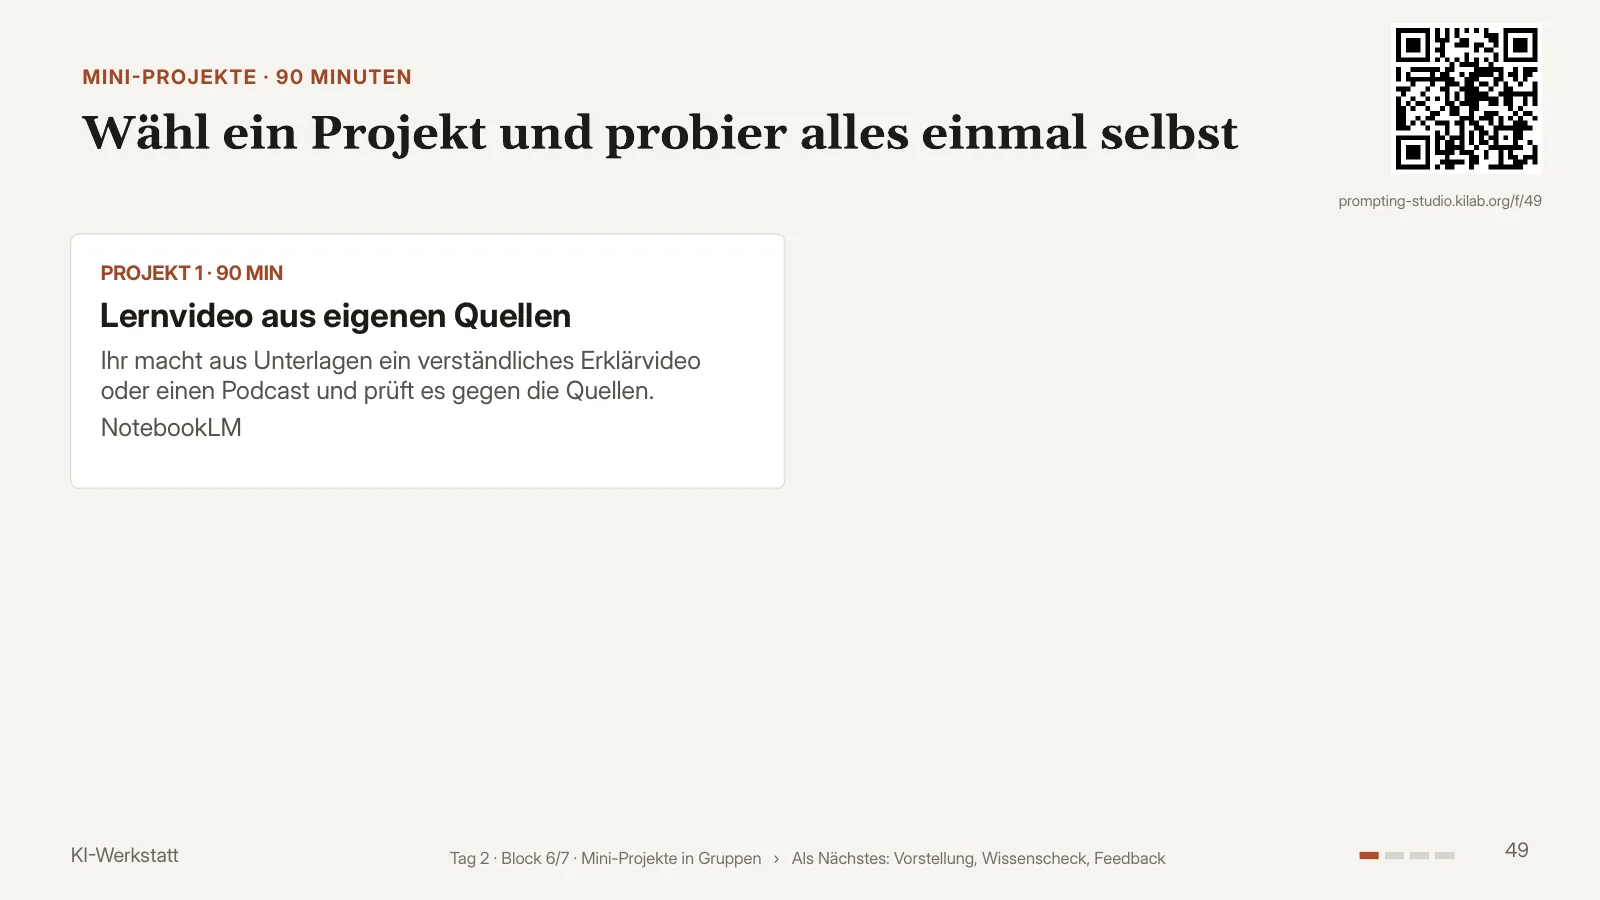
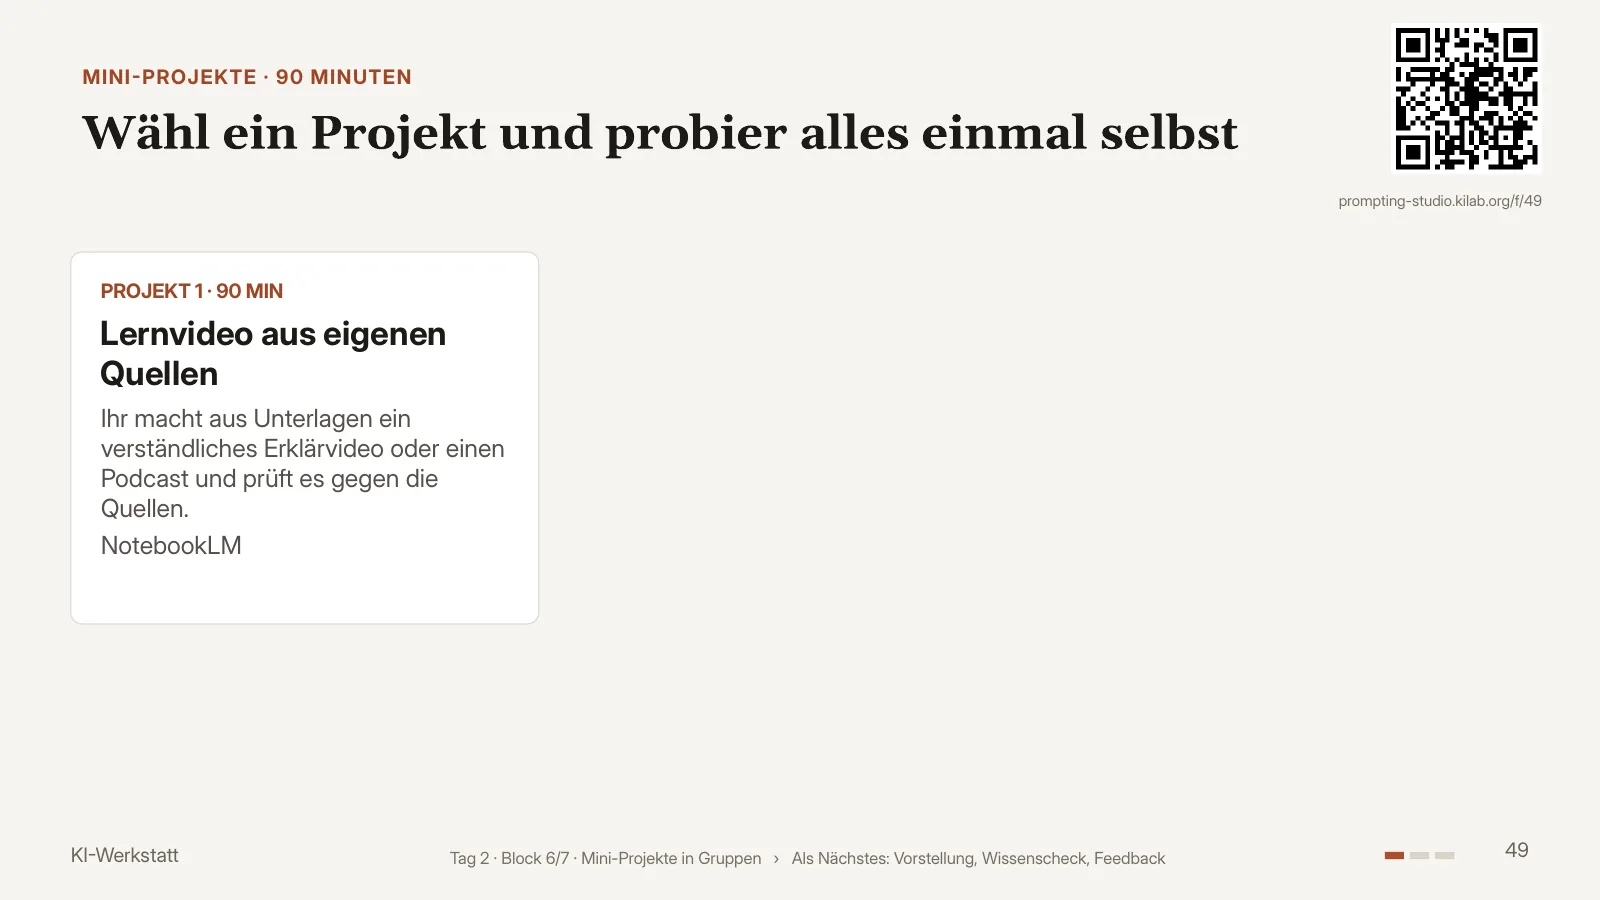
Kurs: Mini-Projekt Song und Musikvideo entfernt (eigener Kurs), Folien v32
Gruppenaufgabe musikvideo gestrichen; Folie 49 zeigt drei Projekte nebeneinander, Aufbau in drei Schritten.

Claude-Session: https://claude.ai/code/session_01StYiw2HCBdyk3EobBGxoXW

Changed region(s): [[0.0625, 0.28, 0.4375, 0.6222], [0.8438, 0.9333, 0.875, 0.9644]]

diff --git a/src/data/kurs/gruppenarbeit.ts b/src/data/kurs/gruppenarbeit.ts
@@ -168,29 +168,6 @@ export const GRUPPENAUFGABEN: Gruppenaufgabe[] = [
     hinweis: "Video- und Audio-Überblicke gibt es kostenlos auf Deutsch, mit einem Tageslimit pro Konto. Die „kinoartigen“ Video-Überblicke (Cinematic) gibt es nur auf Englisch und im Ultra-Abo. Stand 22.11.2026.",
   },
   {
-    id: "musikvideo",
-    tag: 2,
-    wann: "Mini-Projekt, Nachmittag",
-    titel: "Mini-Projekt: Song und Musikvideo",
-    ziel: "Ihr kombiniert Text, Musik und Bild zu einem kurzen Video und klärt, was ihr damit machen dürft.",
-    gruppe: "zu dritt bis viert",
-    rollen: ["Text: schreibt mit KI den Songtext", "Musik: erzeugt den Song", "Bild: erzeugt Bilder und Video", "Rechte: prüft Nutzungsbedingungen"],
-    phasen: [
-      { min: 10, text: "Thema, Stil und Anlass festlegen, z. B. Vereinshymne, Geburtstagslied, Werbejingle." },
-      { min: 15, text: "Songtext mit einem Assistenten schreiben: zwei Strophen, Refrain, Stil angeben." },
-      { min: 20, text: "Song mit Suno oder Flow Music erzeugen, zwei Versionen vergleichen." },
-      { min: 25, text: "Bilder erzeugen und daraus ein kurzes Video machen." },
-      { min: 10, text: "Rechte prüfen: Darf das Ergebnis veröffentlicht oder kommerziell genutzt werden?" },
-      { min: 10, text: "Ins Padlet und vorstellen." },
-    ],
-    startPrompt: "Schreib einen Songtext im Stil {Genre} über {Thema} für {Anlass}. Zwei Strophen, ein Refrain, der sich leicht mitsingen lässt. Keine Namen echter Künstler.",
-    pruefen: ["Passt der Song zum Anlass?", "Sind Personen oder Marken erkennbar, die nicht gefragt wurden?", "Was steht in den Nutzungsbedingungen zur Veröffentlichung?"],
-    tools: ["Suno", "Flow Music", "Gemini Omni", "ChatGPT Bilder"],
-    ersatz: "Ohne Abo: kurzer Song (bis 30 Sekunden) direkt in der Gemini-App mit Lyria, dazu eine Bildergalerie als Diashow.",
-    padlet: "Songtext · Song oder Video · eine Zeile zu den Rechten",
-    hinweis: "Suno: kostenlos 50 Credits pro Tag, Songs nur für private Nutzung, Downloads im Gratistarif begrenzt. Flow Music (Google): im Web kostenlos startbar, einige Funktionen nur mit Google-AI-Abo. Gemini Omni: nur mit Google-AI-Abo (Plus, Pro, Ultra); Text- und Bild-zu-Video gehen in Deutschland, eigene Videos hochladen und bearbeiten ist im EWR gesperrt. Stand 22.11.2026, vor dem Kurs testen.",
-  },
-  {
     id: "praesentation",
     tag: 2,
     wann: "Mini-Projekt, Nachmittag",
